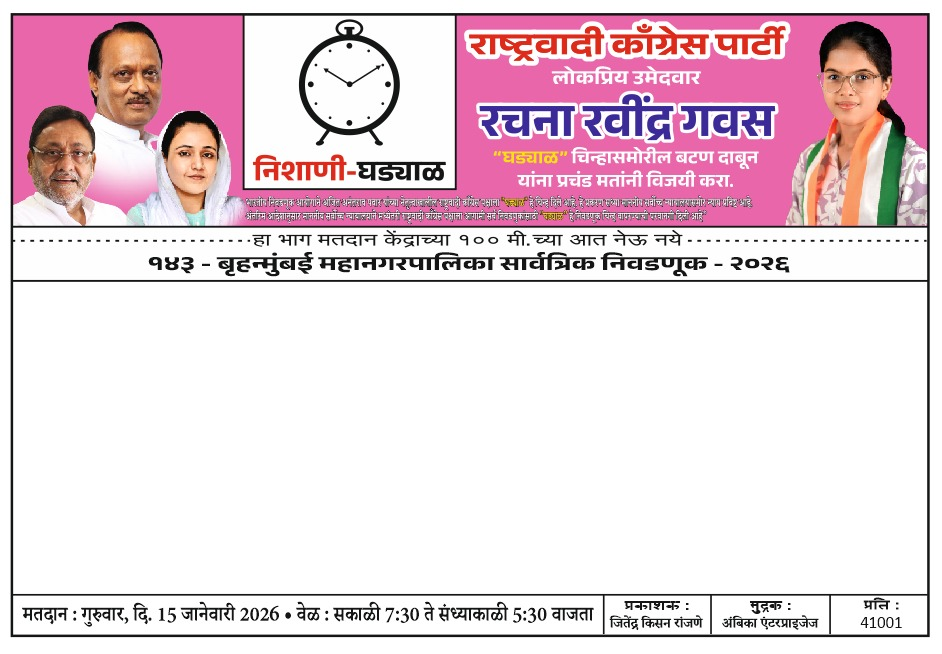
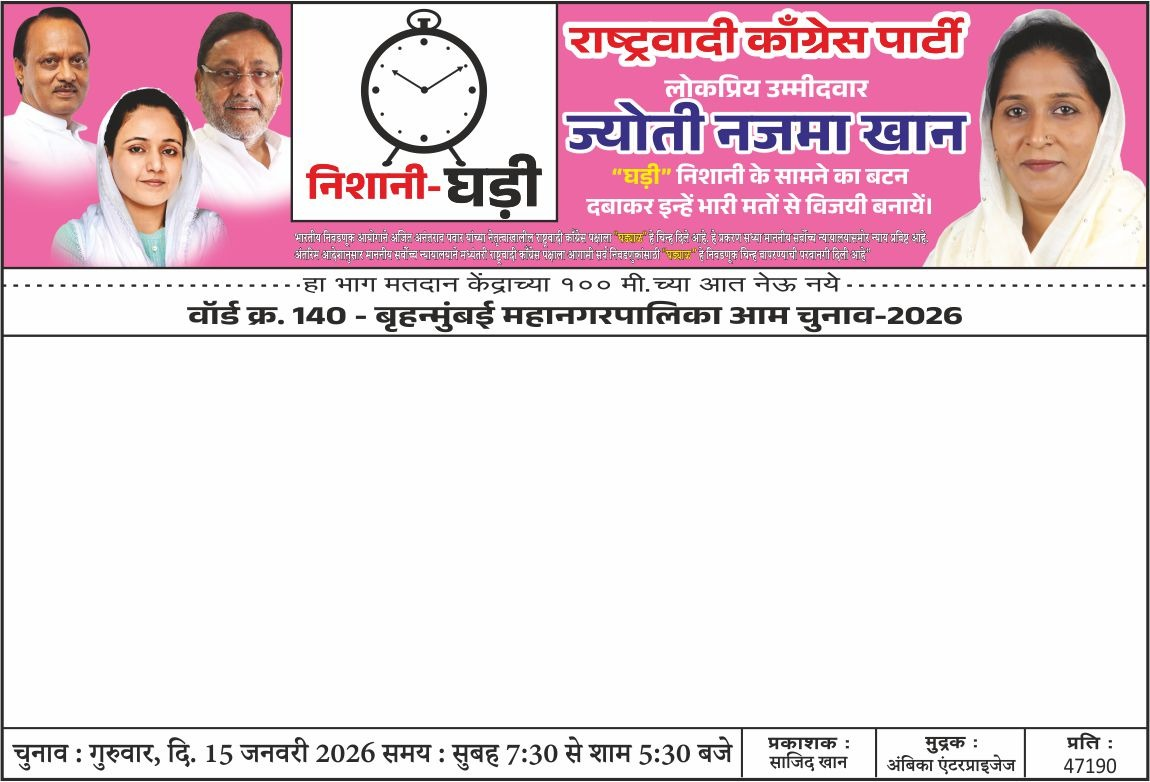
140 141 slips

diff --git a/src/app/api/generate-campaign-image/route.ts b/src/app/api/generate-campaign-image/route.ts
@@ -158,7 +158,7 @@ export async function POST(request: NextRequest) {
     const spacingBetweenLabelAndValue = 0;
     const linePaddingOffsets = [0, 0, 0];
     const addressRightPadding = 250; // No right padding for any field
-    const y = [141, 144, 145, 147].includes(parseInt(wardForPath)) ? 380 : 290; // Reduced top padding
+    const y = [141, 144, 145, 147,140].includes(parseInt(wardForPath)) ? 380 : 290; // Reduced top padding
 
     let currentY = y;
     rows.forEach(({ label, value }) => {
